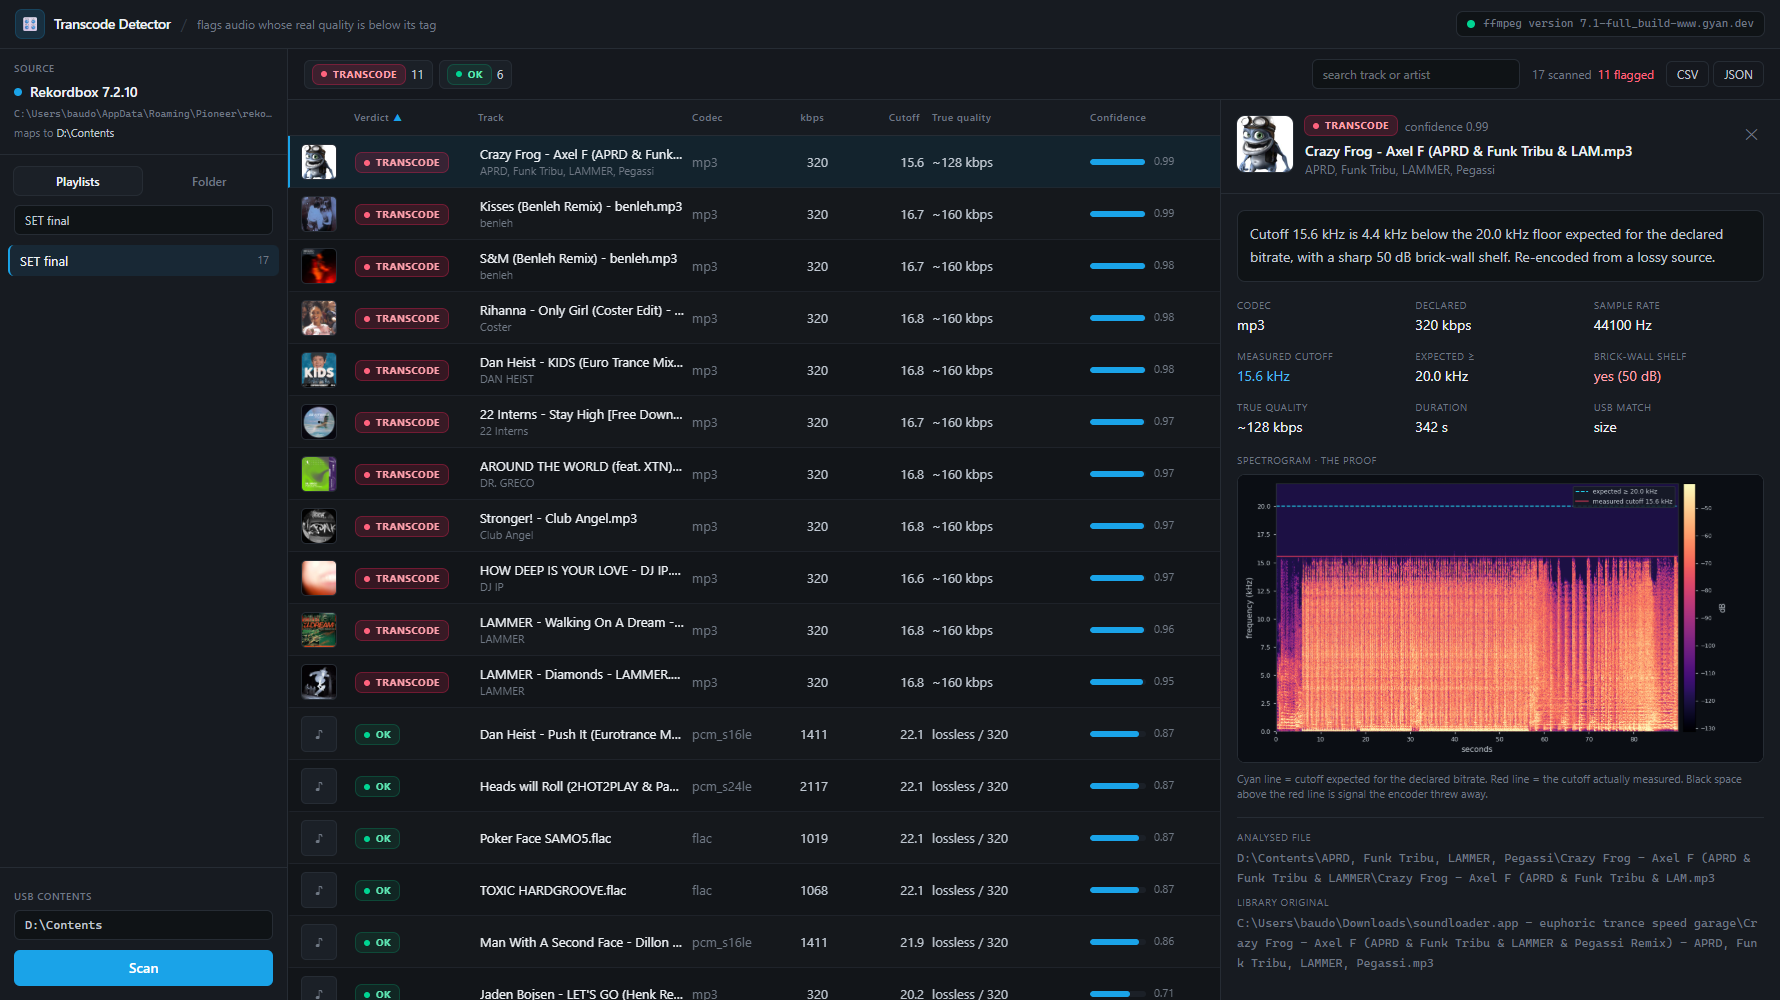
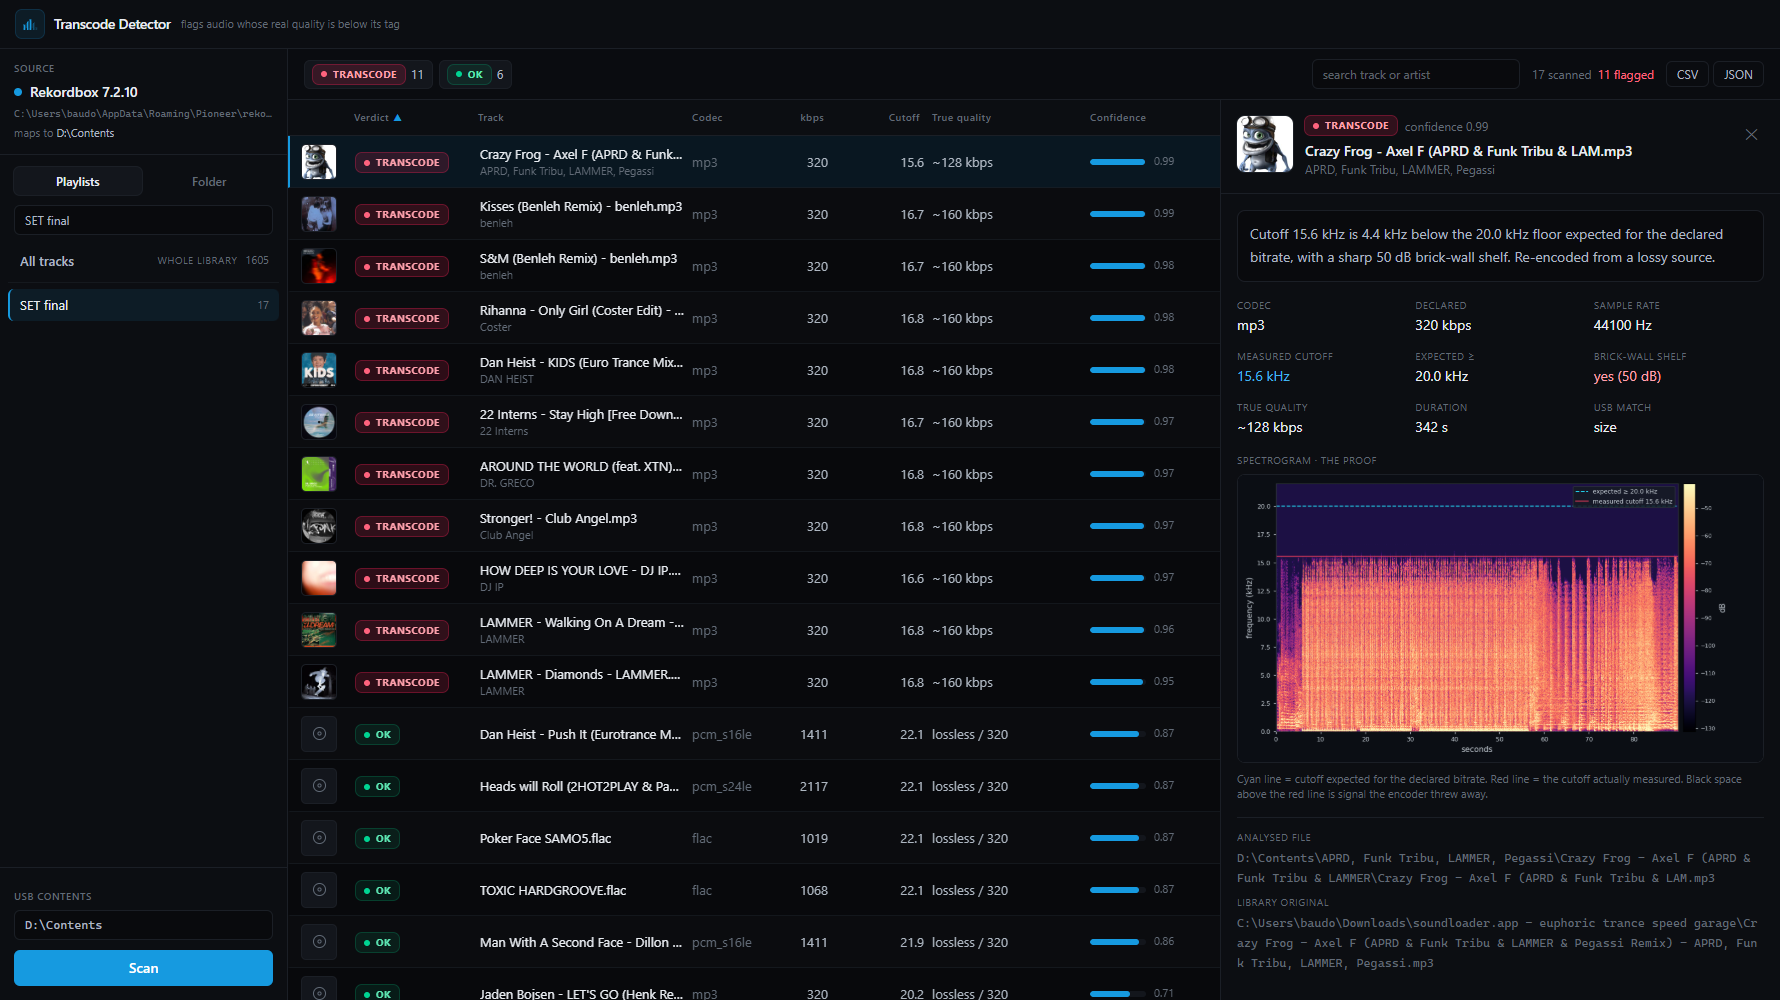
Darker pro theme, whole-library scan, scan progress, drop ffmpeg status
- Theme: much darker near-black Rekordbox palette; replace emoji with clean
  inline SVG marks (cutoff-spectrum logo, vinyl-disc cover fallback).
- Header: remove the ffmpeg version/status chip; only warn when ffmpeg is
  actually missing.
- Whole-library scan: sidebar "All tracks" entry (count via new libraryCount on
  the playlists endpoint) folder-scans the entire USB Contents.
- Scan progress: top progress bar, "Scanning X / Y" summary, and skeleton
  placeholder rows for tracks queued but not yet analysed (no longer shows only
  finished rows).

diff --git a/frontend/src/App.tsx b/frontend/src/App.tsx
@@ -1,10 +1,11 @@
 import { useEffect, useMemo, useRef, useState } from 'react'
-import { api, subscribeScan } from './api'
+import { api, subscribeScan, LIBRARY_TARGET } from './api'
 import type { Health, RekordboxStatus, TrackResult, Verdict } from './api'
 import { Sidebar } from './components/Sidebar'
 import { FilterChips } from './components/FilterChips'
 import { ResultsTable, type Sort, type SortKey } from './components/ResultsTable'
 import { DetailPanel } from './components/DetailPanel'
+import { Logo } from './components/icons'
 
 type Mode = 'rekordbox' | 'folder'
 
@@ -96,9 +97,11 @@ export default function App() {
     setScanning(true)
     setTotal(0)
     const req =
-      mode === 'rekordbox'
-        ? { playlist, contentsRoot: contentsRoot || undefined }
-        : { path: folderPath }
+      mode === 'folder'
+        ? { path: folderPath }
+        : playlist === LIBRARY_TARGET
+          ? { path: contentsRoot } // whole library = scan the entire USB Contents
+          : { playlist, contentsRoot: contentsRoot || undefined }
     try {
       const s = await api.startScan(req)
       setTotal(s.total)
@@ -162,6 +165,11 @@ export default function App() {
 
   const flagged = (counts.TRANSCODE || 0) + (counts['LOSSY SOURCE'] || 0)
 
+  // Skeleton placeholders for tracks queued but not yet analysed (when unfiltered).
+  const pending =
+    scanning && active.size === 0 && !search.trim() ? Math.max(0, total - results.length) : 0
+  const pct = total ? Math.round((results.length / total) * 100) : 0
+
   const exportView = (format: 'csv' | 'json') => {
     if (format === 'csv') downloadBlob('transcode-scan.csv', rowsToCsv(view), 'text/csv')
     else downloadBlob('transcode-scan.json', JSON.stringify(view, null, 2), 'application/json')
@@ -172,23 +180,23 @@ export default function App() {
       {/* header */}
       <header className="flex items-center justify-between border-b border-line bg-surface px-4 py-2.5">
         <div className="flex items-center gap-2.5">
-          <span className="grid h-7 w-7 place-items-center rounded-md bg-accent/15 text-sm ring-1 ring-accent/30">
-            🎛
+          <span className="grid h-7 w-7 place-items-center rounded-md bg-accent/10 ring-1 ring-accent/25">
+            <Logo className="h-4 w-4 text-accent" />
           </span>
           <h1 className="text-sm font-semibold tracking-tight text-ink">Transcode Detector</h1>
-          <span className="hidden text-line-strong sm:inline">/</span>
-          <span className="hidden text-xs text-muted sm:inline">
+          <span className="hidden text-[11px] text-muted sm:inline">
             flags audio whose real quality is below its tag
           </span>
         </div>
-        <div className="flex items-center gap-2 rounded-md bg-input px-2.5 py-1 ring-1 ring-line">
-          <span className={`h-2 w-2 rounded-full ${health?.ok ? 'bg-emerald-400' : 'bg-rose-500'}`} />
-          <span className="mono text-[11px] text-muted">
-            {health?.ok
-              ? (health.ffmpeg || '').split(' ').slice(0, 3).join(' ')
-              : health?.error || 'checking…'}
-          </span>
-        </div>
+        {health && !health.ok && (
+          <div
+            className="flex items-center gap-2 rounded-md bg-rose-500/10 px-2.5 py-1 ring-1 ring-rose-500/30"
+            title={health.error || ''}
+          >
+            <span className="h-2 w-2 rounded-full bg-rose-500" />
+            <span className="text-[11px] text-rose-300">ffmpeg missing</span>
+          </div>
+        )}
       </header>
 
       <div className="flex min-h-0 flex-1">
@@ -221,7 +229,13 @@ export default function App() {
                 className="w-52 rounded-md border border-line bg-input px-2.5 py-1.5 text-xs text-body transition focus:border-accent"
               />
               <span className="text-xs text-muted">
-                {results.length} scanned
+                {scanning ? (
+                  <span className="text-accent-2">
+                    Scanning {results.length} / {total}…
+                  </span>
+                ) : (
+                  `${results.length} scanned`
+                )}
                 {flagged > 0 && <span className="ml-1.5 text-rose-400">{flagged} flagged</span>}
               </span>
               {results.length > 0 && (
@@ -243,11 +257,20 @@ export default function App() {
             </div>
           </div>
 
+          {scanning && (
+            <div className="h-0.5 w-full bg-line">
+              <div
+                className="h-full bg-accent transition-all duration-200"
+                style={{ width: `${Math.max(pct, 3)}%` }}
+              />
+            </div>
+          )}
+
           <div className="flex min-h-0 flex-1">
             {results.length === 0 && !scanning ? (
               <div className="fade-in flex flex-1 flex-col items-center justify-center gap-3 px-6 text-center text-muted">
-                <div className="grid h-14 w-14 place-items-center rounded-2xl bg-accent/10 text-3xl ring-1 ring-accent/20">
-                  📊
+                <div className="grid h-14 w-14 place-items-center rounded-xl bg-accent/[0.06] ring-1 ring-line">
+                  <Logo className="h-7 w-7 text-accent/70" />
                 </div>
                 <p className="text-sm text-body">
                   Pick a playlist on the left, then hit{' '}
@@ -262,6 +285,7 @@ export default function App() {
               <>
                 <ResultsTable
                   rows={view}
+                  pending={pending}
                   sort={sort}
                   onSort={onSort}
                   selected={selected?.file ?? null}

diff --git a/frontend/src/components/ResultsTable.tsx b/frontend/src/components/ResultsTable.tsx
@@ -1,4 +1,5 @@
 import { useEffect, useRef, useState } from 'react'
+import type { CSSProperties } from 'react'
 import { FixedSizeList as List, type ListChildComponentProps } from 'react-window'
 import type { TrackResult } from '../api'
 import { VerdictBadge } from './VerdictBadge'
@@ -48,8 +49,30 @@ function ConfBar({ value }: { value: number }) {
   )
 }
 
+function SkeletonRow({ style }: { style: CSSProperties }) {
+  return (
+    <div
+      style={{ ...style, gridTemplateColumns: COLS }}
+      className="grid items-center gap-2 border-b border-l-2 border-line/60 border-l-transparent px-3"
+    >
+      <div className="h-[34px] w-[34px] animate-pulse rounded bg-panel" />
+      <div className="h-4 w-20 animate-pulse rounded bg-panel" />
+      <div className="space-y-1.5">
+        <div className="h-3 w-40 animate-pulse rounded bg-panel" />
+        <div className="h-2.5 w-24 animate-pulse rounded bg-panel/60" />
+      </div>
+      <div className="h-3 w-8 animate-pulse rounded bg-panel" />
+      <div className="ml-auto h-3 w-8 animate-pulse rounded bg-panel" />
+      <div className="ml-auto h-3 w-10 animate-pulse rounded bg-panel" />
+      <div className="h-3 w-20 animate-pulse rounded bg-panel" />
+      <div className="h-1.5 w-14 animate-pulse rounded-full bg-panel" />
+    </div>
+  )
+}
+
 function Row({ index, style, data }: ListChildComponentProps<RowData>) {
   const r = data.rows[index]
+  if (!r) return <SkeletonRow style={style} />
   const sel = data.selected === r.file
   return (
     <div
@@ -101,18 +124,21 @@ function useHeight() {
 
 export function ResultsTable({
   rows,
+  pending = 0,
   sort,
   onSort,
   selected,
   onSelect,
 }: {
   rows: TrackResult[]
+  pending?: number
   sort: Sort
   onSort: (k: SortKey) => void
   selected: string | null
   onSelect: (r: TrackResult) => void
 }) {
   const { ref, h } = useHeight()
+  const count = rows.length + pending
   return (
     <div className="fade-in flex min-h-0 flex-1 flex-col">
       <div
@@ -135,7 +161,7 @@ export function ResultsTable({
       </div>
 
       <div ref={ref} className="min-h-0 flex-1">
-        {rows.length === 0 ? (
+        {count === 0 ? (
           <div className="flex h-full items-center justify-center text-sm text-muted">
             No tracks match the current filter.
           </div>
@@ -143,7 +169,7 @@ export function ResultsTable({
           <List
             height={h}
             width="100%"
-            itemCount={rows.length}
+            itemCount={count}
             itemSize={ROW_H}
             itemData={{ rows, selected, onSelect }}
           >

diff --git a/frontend/src/components/Sidebar.tsx b/frontend/src/components/Sidebar.tsx
@@ -1,4 +1,5 @@
 import { useState } from 'react'
+import { LIBRARY_TARGET } from '../api'
 import type { Playlist, RekordboxStatus } from '../api'
 
 type Mode = 'rekordbox' | 'folder'
@@ -35,13 +36,19 @@ export function Sidebar({
   total: number
 }) {
   const [filter, setFilter] = useState('')
+  const libraryCount = status?.libraryCount ?? 0
   const playlists: Playlist[] = (status?.playlists ?? []).filter((p) => !p.is_folder)
   const shown = filter.trim()
     ? playlists.filter((p) => p.name.toLowerCase().includes(filter.trim().toLowerCase()))
     : playlists
 
   const canScan =
-    !scanning && (mode === 'folder' ? folderPath.trim().length > 0 : playlist.trim().length > 0)
+    !scanning &&
+    (mode === 'folder'
+      ? folderPath.trim().length > 0
+      : playlist === LIBRARY_TARGET
+        ? contentsRoot.trim().length > 0
+        : playlist.trim().length > 0)
 
   return (
     <aside className="flex w-72 shrink-0 flex-col border-r border-line bg-surface">
@@ -107,6 +114,25 @@ export function Sidebar({
               <div className="px-2 py-3 text-xs text-rose-400">
                 {status.error || 'Rekordbox DB not readable'}
               </div>
+            )}
+            {libraryCount > 0 && (
+              <>
+                <button
+                  onClick={() => setPlaylist(LIBRARY_TARGET)}
+                  className={`flex w-full items-center gap-2 rounded-md border-l-2 px-2.5 py-1.5 text-left transition ${
+                    playlist === LIBRARY_TARGET
+                      ? 'border-accent bg-accent/10 text-ink'
+                      : 'border-transparent text-body hover:bg-panel'
+                  }`}
+                >
+                  <span className="truncate text-[13px] font-medium">All tracks</span>
+                  <span className="ml-auto shrink-0 text-[10px] uppercase tracking-wider text-muted">
+                    whole library
+                  </span>
+                  <span className="shrink-0 tabular-nums text-[11px] text-muted">{libraryCount}</span>
+                </button>
+                <div className="my-1.5 border-t border-line/60" />
+              </>
             )}
             {shown.map((p) => {
               const sel = p.name === playlist

diff --git a/frontend/src/index.css b/frontend/src/index.css
@@ -7,17 +7,17 @@
  * paths/versions.
  * ------------------------------------------------------------------ */
 @theme {
-  --color-base: #121519;
-  --color-surface: #171b21;
-  --color-panel: #1b2027;
-  --color-input: #0f1316;
-  --color-line: #262c34;
-  --color-line-strong: #323a45;
-  --color-ink: #eef2f6;
-  --color-body: #c0c8d2;
-  --color-muted: #6f7884;
-  --color-accent: #1aa3e8;
-  --color-accent-2: #4bb9f1;
+  --color-base: #08090c;
+  --color-surface: #0c0e12;
+  --color-panel: #13161c;
+  --color-input: #090a0d;
+  --color-line: #1b1f26;
+  --color-line-strong: #272d36;
+  --color-ink: #e9edf2;
+  --color-body: #aeb7c2;
+  --color-muted: #626b77;
+  --color-accent: #169ae0;
+  --color-accent-2: #43b4ef;
 }
 
 :root {
@@ -32,8 +32,8 @@ body,
 
 body {
   margin: 0;
-  background: #121519;
-  color: #c0c8d2;
+  background: #08090c;
+  color: #aeb7c2;
   font-family: "Inter", ui-sans-serif, system-ui, "Segoe UI", Roboto, sans-serif;
   font-feature-settings: "cv02", "cv03", "cv04";
   -webkit-font-smoothing: antialiased;

diff --git a/frontend/src/components/icons.tsx b/frontend/src/components/icons.tsx
@@ -1,0 +1,24 @@
+import type { SVGProps } from 'react'
+
+/** Spectrum bars rising then falling off a cliff: the cutoff motif. */
+export function Logo(props: SVGProps<SVGSVGElement>) {
+  return (
+    <svg viewBox="0 0 24 24" fill="currentColor" aria-hidden="true" {...props}>
+      <rect x="2.5" y="13" width="2.6" height="8" rx="1.3" />
+      <rect x="7" y="8.5" width="2.6" height="12.5" rx="1.3" />
+      <rect x="11.5" y="5" width="2.6" height="16" rx="1.3" />
+      <rect x="16" y="10.5" width="2.6" height="10.5" rx="1.3" opacity="0.45" />
+      <rect x="20.5" y="17" width="2.4" height="4" rx="1.2" opacity="0.25" />
+    </svg>
+  )
+}
+
+/** Vinyl disc — cover-art fallback. */
+export function DiscIcon(props: SVGProps<SVGSVGElement>) {
+  return (
+    <svg viewBox="0 0 24 24" fill="none" stroke="currentColor" strokeWidth="1.4" aria-hidden="true" {...props}>
+      <circle cx="12" cy="12" r="8.5" />
+      <circle cx="12" cy="12" r="2.2" />
+    </svg>
+  )
+}

diff --git a/frontend/src/components/Cover.tsx b/frontend/src/components/Cover.tsx
@@ -1,5 +1,6 @@
 import { useState } from 'react'
 import { api } from '../api'
+import { DiscIcon } from './icons'
 
 /** Album art (embedded, extracted by the backend). Falls back to a note glyph. */
 export function Cover({
@@ -20,7 +21,7 @@ export function Cover({
         style={box}
         className={`grid place-items-center bg-panel text-muted ring-1 ring-line ${radius}`}
       >
-        <span style={{ fontSize: Math.round(size * 0.42) }}>♪</span>
+        <DiscIcon style={{ width: Math.round(size * 0.5), height: Math.round(size * 0.5) }} />
       </div>
     )
   }

diff --git a/frontend/src/api.ts b/frontend/src/api.ts
@@ -47,7 +47,11 @@ export interface RekordboxStatus {
   dbPath?: string | null
   dbDir?: string | null
   usbRoots?: string[]
+  libraryCount?: number
 }
+
+// Sentinel playlist value meaning "scan the whole USB library (every track)".
+export const LIBRARY_TARGET = 'whole-library'
 
 export interface ScanRequest {
   path?: string

diff --git a/backend/main.py b/backend/main.py
@@ -164,13 +164,20 @@ async def playlists():
     def work():
         info = rekordbox_source.rekordbox_info()
         roots = rekordbox_source.find_usb_contents_roots()
+        library_count = 0
+        if roots:
+            try:
+                library_count = sum(1 for _ in scanner.iter_audio_files(roots[0]))
+            except Exception:  # noqa: BLE001
+                library_count = 0
         try:
             db = rekordbox_source.open_database()
             pls = [asdict(p) for p in rekordbox_source.list_playlists(db)]
-            return {"available": True, "playlists": pls, "usbRoots": roots, **info}
+            return {"available": True, "playlists": pls, "usbRoots": roots,
+                    "libraryCount": library_count, **info}
         except Exception as exc:  # noqa: BLE001
             return {"available": False, "error": str(exc), "playlists": [],
-                    "usbRoots": roots, **info}
+                    "usbRoots": roots, "libraryCount": library_count, **info}
 
     return await loop.run_in_executor(EXEC, work)
 

diff --git a/README.md b/README.md
@@ -1,4 +1,4 @@
-# 🎛 Transcode Detector
+# Transcode Detector
 
 A local app that scans a music library and flags audio files whose **real**
 quality is lower than their tag claims — e.g. a 128 kbps source re-encoded and
